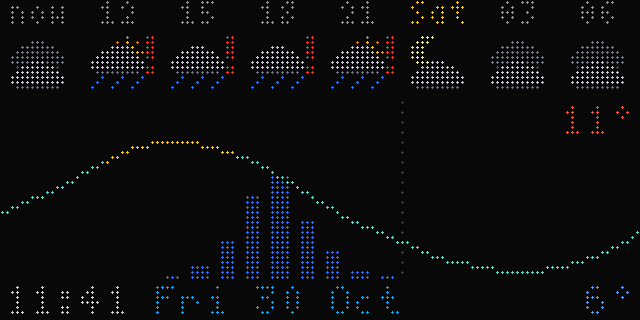
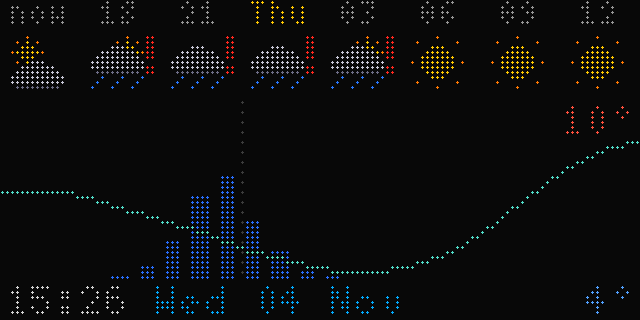
README: rain radar screenshot
Claude-Session: https://claude.ai/code/session_01HxwqHPo7hSEdmpsDUmvuHn

diff --git a/server/screenshots.py b/server/screenshots.py
@@ -68,6 +68,20 @@ def main():
             app.adsb.aircraft, app.adsb.updated = [ac], now
             led_preview(app.screens["flights"].render(now)[0], scale=5).save(OUT / f"{name}.png")
             print(OUT / f"{name}.png")
+        # radar: live MeteoSwiss frames; pick the one with the most rain on the map
+        app.radar.refresh()
+        radar = app.screens["radar"]
+        radar.on_show(now)
+        best = None
+        for k in range(len(app.radar.frames)):
+            pos = 0 if k == 0 else radar.HOLD_S + (k - 1) * radar.FRAME_S + 0.01
+            img, _ = radar.render(now + pos)
+            b = img.crop((0, 9, 128, 63)).tobytes()
+            lit = sum(1 for k in range(0, len(b), 3) if max(b[k:k + 3]) > 100)
+            if best is None or lit > best[0]:
+                best = (lit, img)
+        led_preview(best[1], scale=5).save(OUT / "radar.png")
+        print(OUT / "radar.png")
         app.tracker.target, app.tracker.aircraft = "EC82VC", TRACKED
         led_preview(app.screens["tracker"].render(now)[0], scale=5).save(OUT / "tracker.png")
         print(OUT / "tracker.png")

diff --git a/README.md b/README.md
@@ -33,11 +33,12 @@ A screen without data is skipped. A new aircraft that comes close and low can in
 
 ## Screenshots
 
-Rendered with the LED look by `server/screenshots.py`. The timeline uses live MeteoSwiss data with a simulated shower, so the rain warnings appear. The flights examples omit airline logos, which the panel shows to the left of the airline name.
+Rendered with the LED look by `server/screenshots.py`. The timeline uses live MeteoSwiss data with a simulated shower, so the rain warnings appear. The radar shows live MeteoSwiss data (Source: MeteoSwiss). The flights examples omit airline logos, which the panel shows to the left of the airline name.
 
 | | |
 |---|---|
 | ![Timeline](docs/screenshots/timeline.png)<br>`timeline`: 24 h strip, red **!** where rain is likely | ![Clock](docs/screenshots/clock.png)<br>`clock` |
+| ![Rain radar](docs/screenshots/radar.png)<br>`radar`: MeteoSwiss radar and forecast around Lake Geneva (frame time top right, amber = forecast) | |
 | ![Flights](docs/screenshots/flights.png)<br>`flights`: route checked against the aircraft | ![Flights, unsure route](docs/screenshots/flights-unsure.png)<br>`flights`: stored route contradicts the aircraft, shown dimmed with "?" |
 | ![Flights, helicopter](docs/screenshots/flights-heli.png)<br>`flights`: helicopter, operator by callsign | ![Tracked flight](docs/screenshots/tracker.png)<br>`tracker`: one chosen flight, progress, km left and ETA |
 
